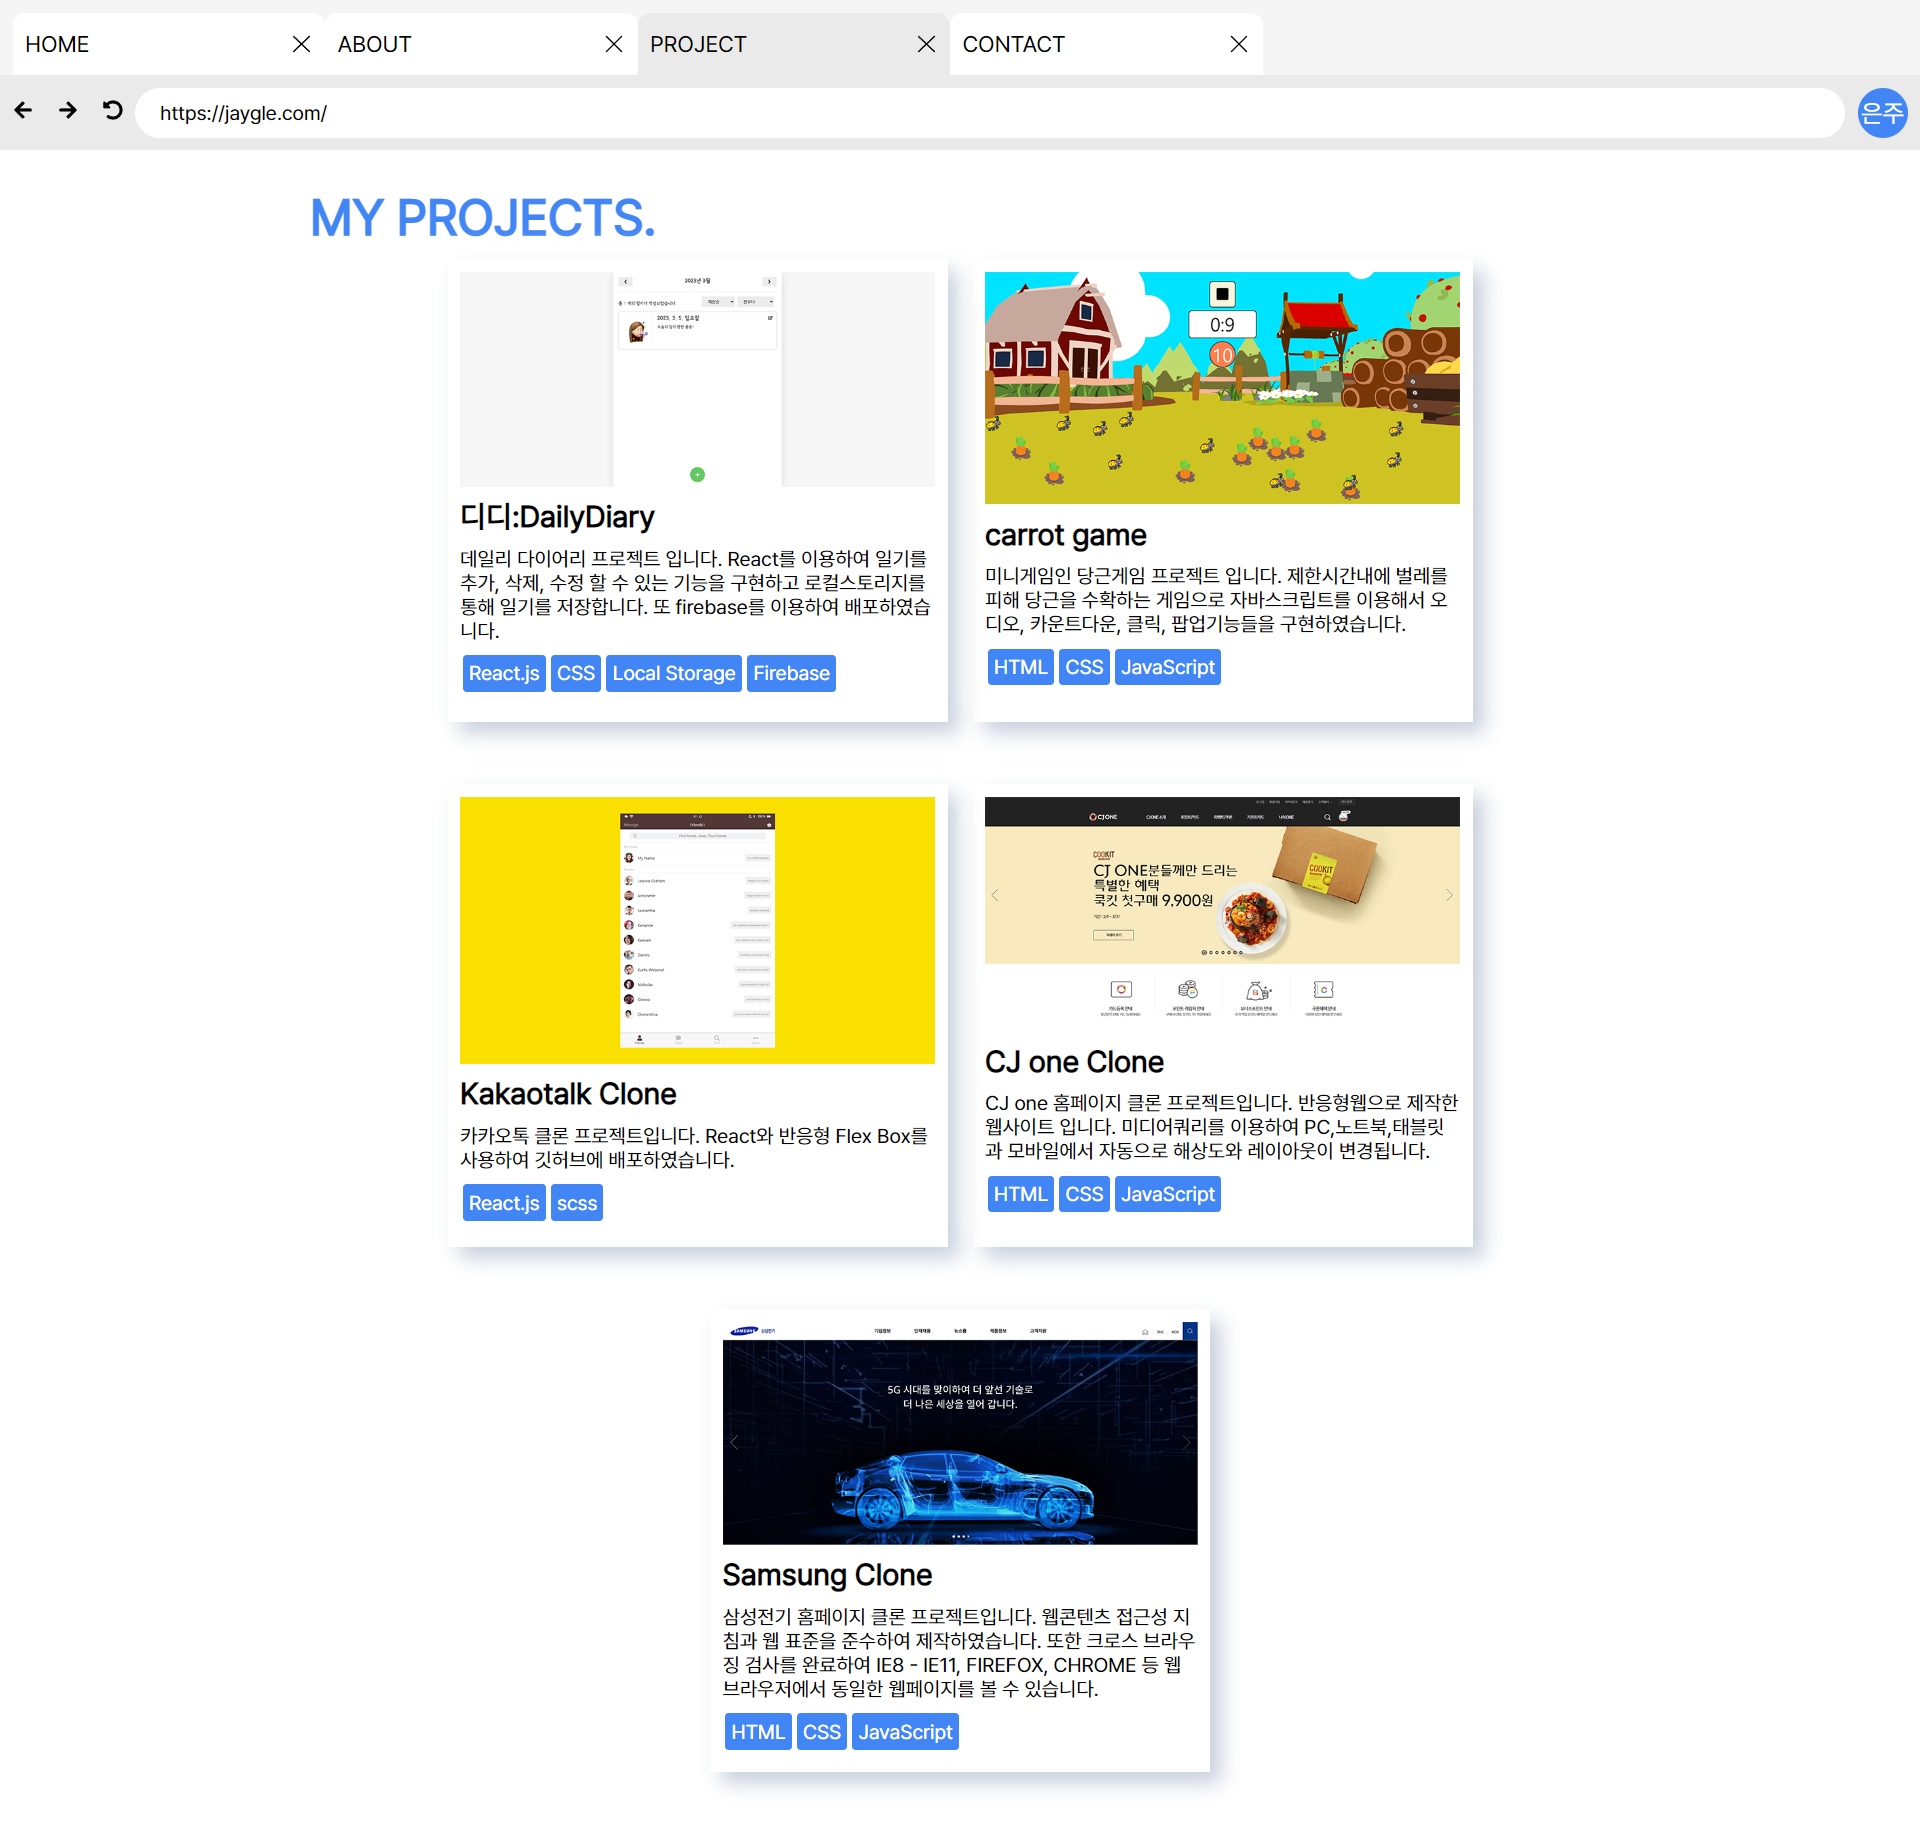
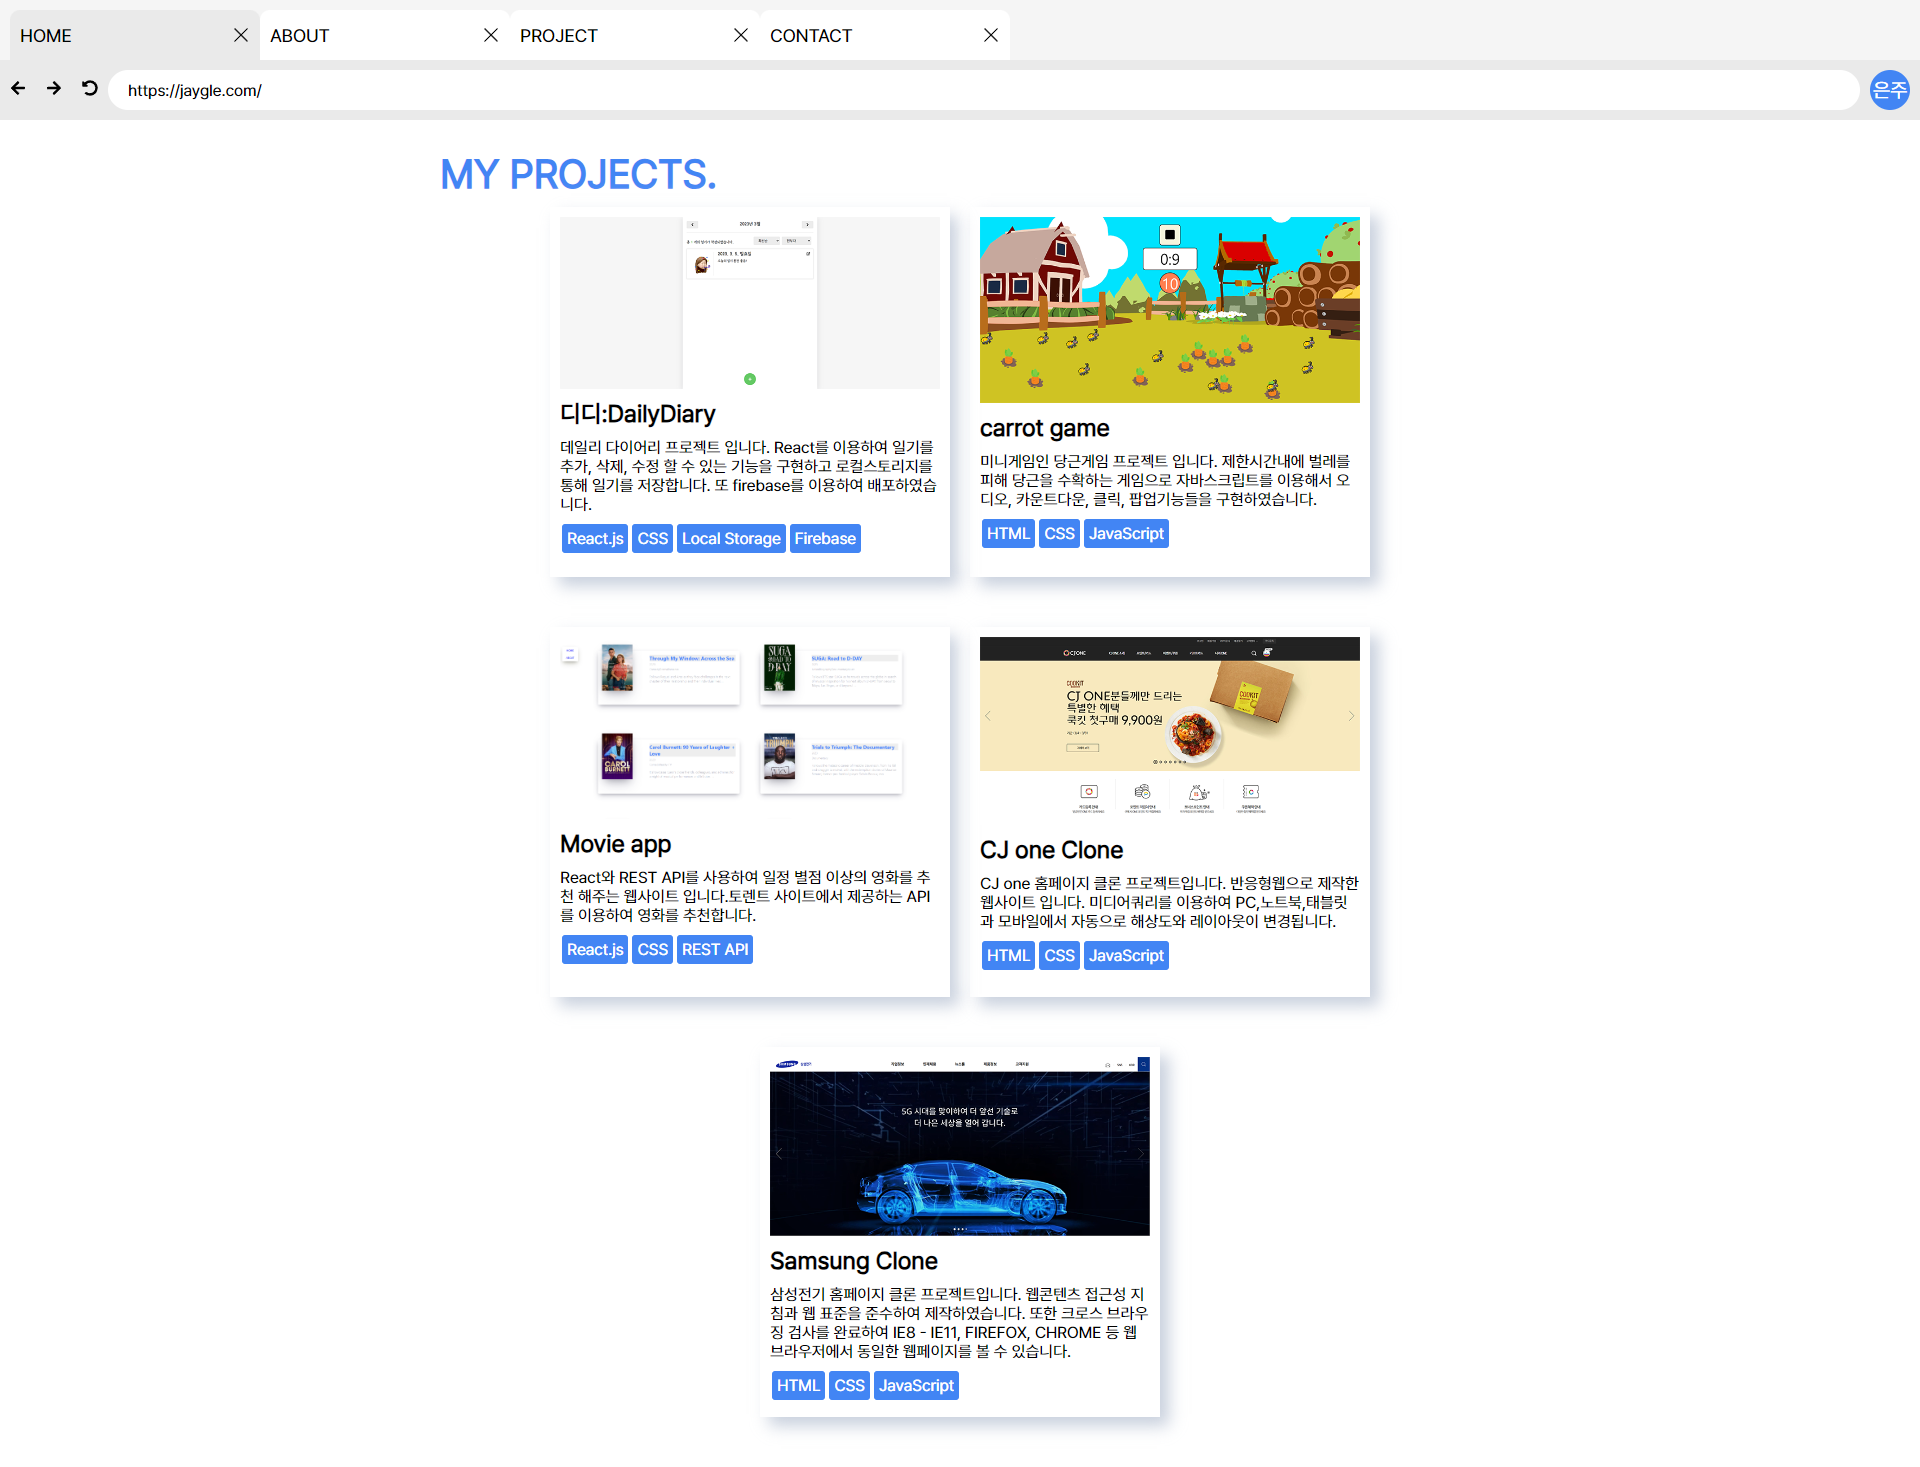
이미지 변경

diff --git a/src/data/projects.js b/src/data/projects.js
@@ -17,11 +17,11 @@ export const myProject = [
    },
    {
       id: 3,
-      img: process.env.PUBLIC_URL + `/img/projects/project_kakaotalk.png`,
-      title: 'Kakaotalk Clone',
-      description: '카카오톡 클론 프로젝트입니다. React와 반응형 Flex Box를 사용하여 깃허브에 배포하였습니다.',
-      tech_stack: ['React.js', 'scss'],
-      url: 'https://dmswnlee.github.io/kakaoTalk-app/',
+      img: process.env.PUBLIC_URL + `/img/projects/project_movie-app.png`,
+      title: 'Movie app',
+      description: 'React와 REST API를 사용하여 일정 별점 이상의 영화를 추천 해주는 웹사이트 입니다.토렌트 사이트에서 제공하는 API를 이용하여 영화를 추천합니다.',
+      tech_stack: ['React.js', 'CSS', 'REST API'],
+      url: 'https://dmswnlee.github.io/movie-app/',
    },
    {
       id: 4,
